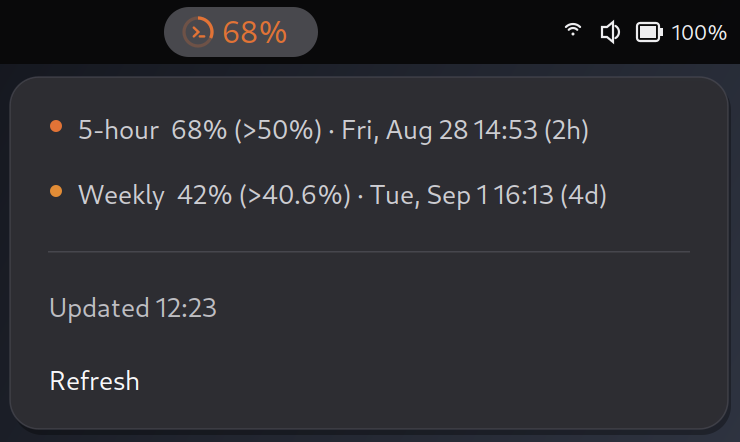
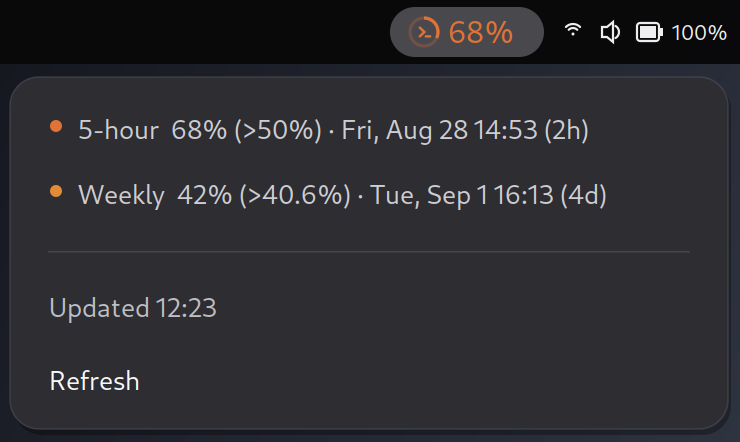
fix: gnome screenshot (#14)
* fix: gnome screenshot

* chore: update gnome screenshot

---------

Changed region(s): [[0.5284, 0.0, 0.7459, 0.1471], [0.2176, 0.0, 0.4351, 0.1471]]

diff --git a/gnome/scripts/screenshot.js b/gnome/scripts/screenshot.js
@@ -154,10 +154,10 @@ cr.fill();
 const overall = quotaStatus(quota, NOW);
 const overallColor = paceColor(overall);
 cr.setSourceRGBA(0.3, 0.3, 0.32, 0.95);
-roundedRectangle(cr, 164, 7, 154, 50, 25);
+roundedRectangle(cr, 390, 7, 154, 50, 25);
 cr.fill();
-drawQuotaIcon(cr, 198, 32, overall);
-centeredText(cr, '68%', 223, 32, 23, overallColor);
+drawQuotaIcon(cr, 424, 32, overall);
+centeredText(cr, '68%', 449, 32, 23, overallColor);
 drawPanelStatus(cr);
 
 cr.setSourceRGBA(0, 0, 0, 0.32);
